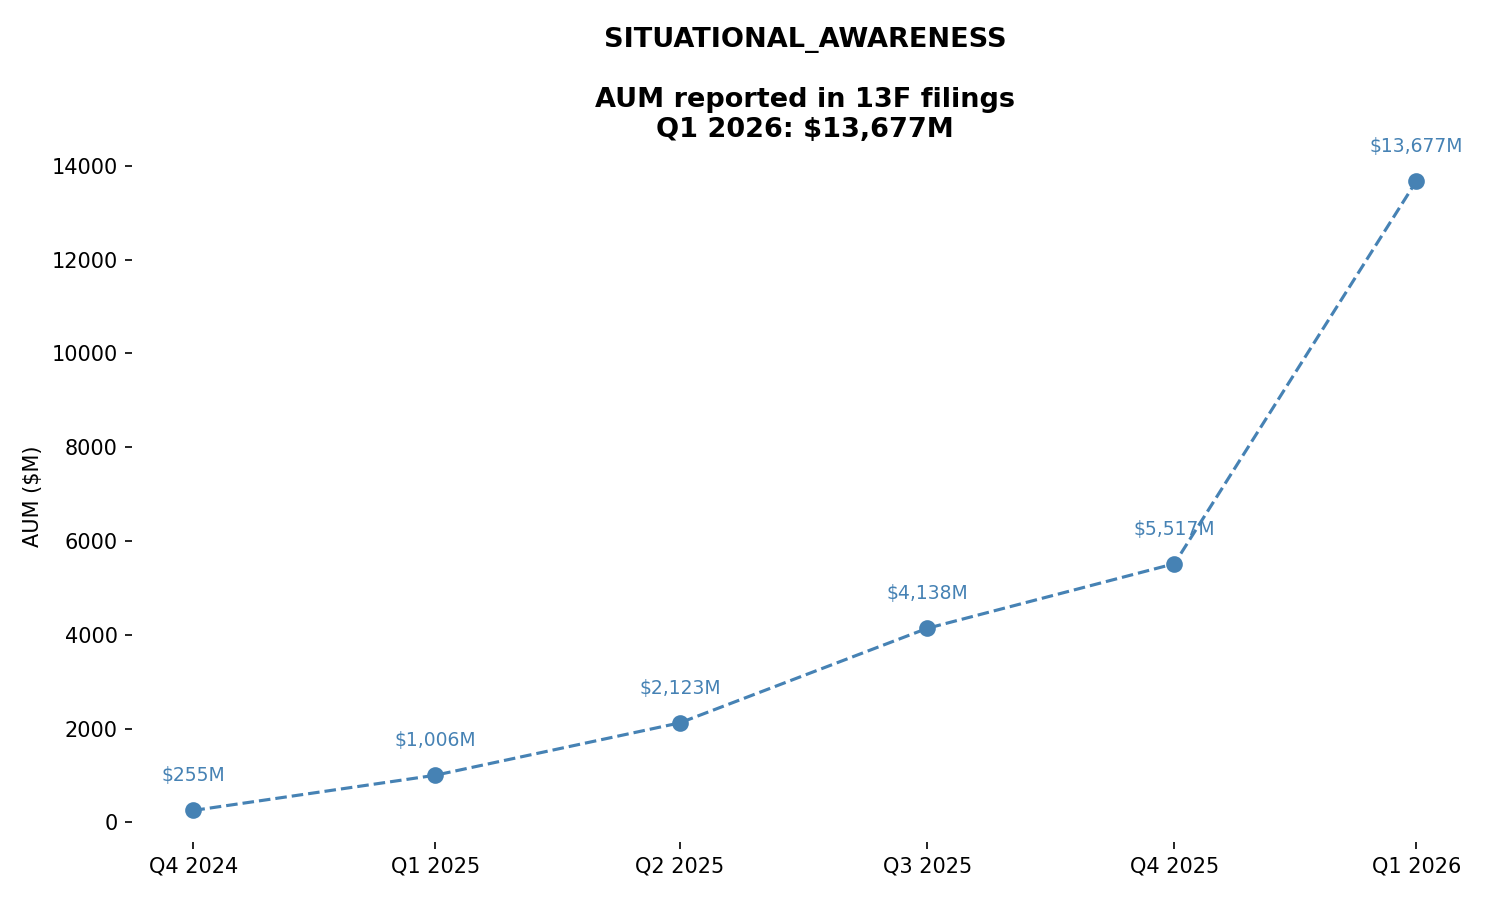
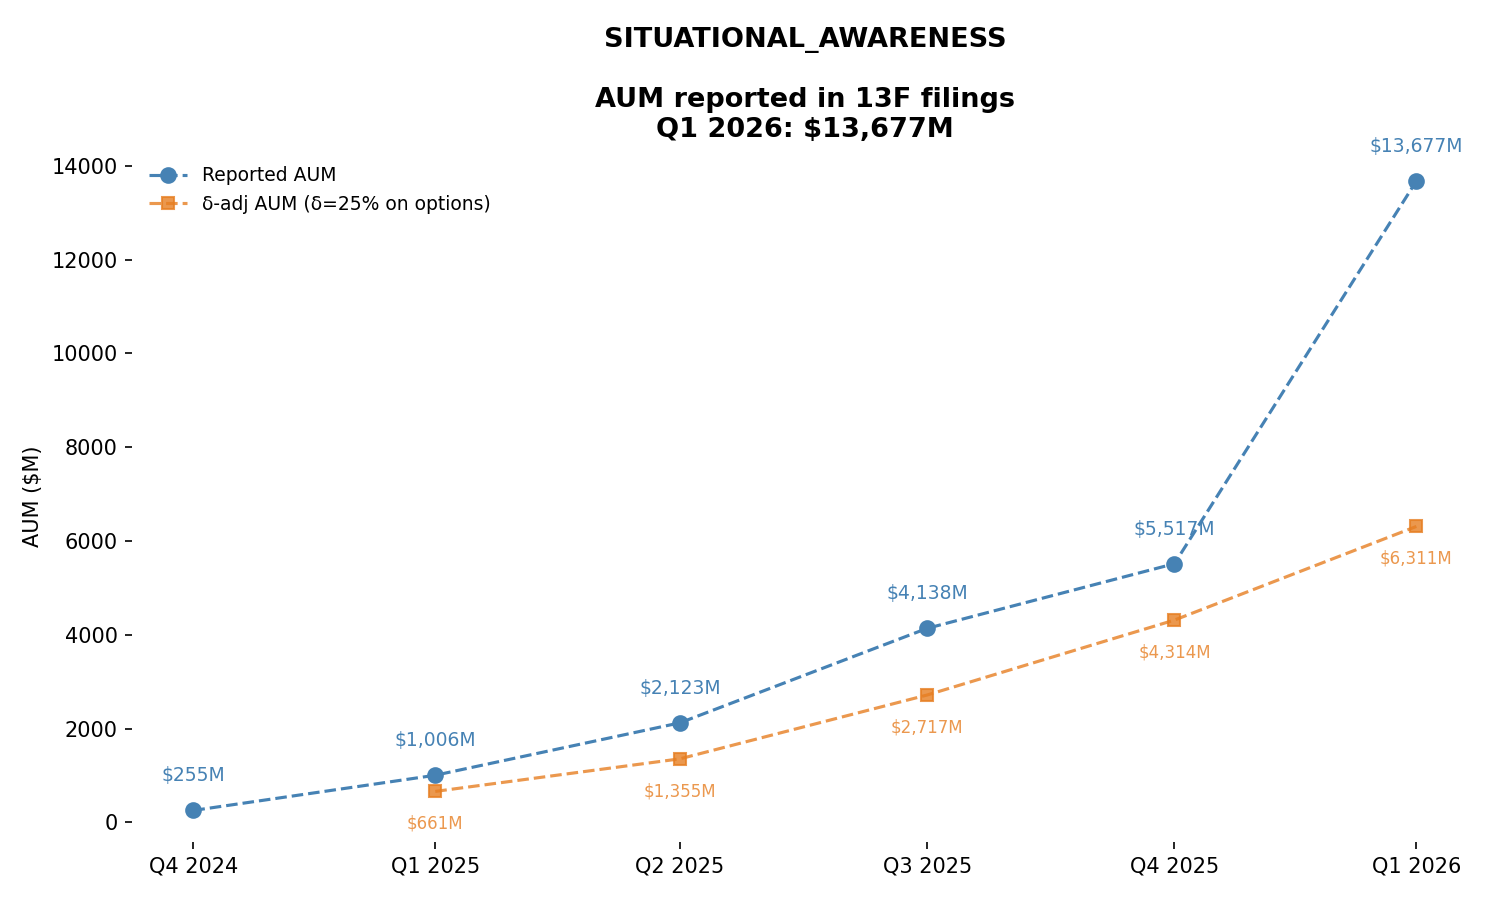
seb_benq_commit

diff --git a/alphaleague/last13f/index.html b/alphaleague/last13f/index.html
@@ -46,10 +46,22 @@
     /* content */
     .fund-block{padding:1rem 2rem 2.5rem}
     .fund-block h2{color:#368c2e;font-size:1.15rem;margin-bottom:.5rem}
-    .chart-sec img{max-width:100%;border-radius:6px;
+    .chart-sec img{max-width:100%;max-height:75vh;width:auto;height:auto;
+                    display:block;border-radius:6px;
                     box-shadow:0 2px 10px rgba(0,0,0,.09)}
-    /* positions chart is portrait — cap height so it doesn't dominate the page */
-    [id$="-positions"] img{max-height:90vh;width:auto;display:block}
+    /* positions: portrait, needs more vertical room */
+    [id$="-positions"] img{max-height:85vh}
+    /* buys & sells bar charts: landscape, keep compact */
+    [id$="-buysells"] img{max-height:60vh}
+    /* buys & sells perf: multi-row chart, needs full height */
+    [id$="-buysperf"] img{max-height:95vh}
+    /* stacked chart subtitles */
+    .chart-subtitle{font-size:.85rem;font-weight:600;color:#495057;
+                     margin:1.2rem 0 .3rem}
+    .chart-subtitle:first-child{margin-top:0}
+    /* explanatory caption below chart */
+    .chart-caption{font-size:.8rem;color:#6c757d;margin-top:.8rem;
+                    max-width:900px;line-height:1.5}
 
     @media(max-width:700px){
       .top-tabs,.fund-block{padding-left:.8rem;padding-right:.8rem}
@@ -67,15 +79,6 @@
 
 <div class="top-tabs">
   <div class="top-tab active" data-target="fund-SITUATIONAL_AWARENESS"><img src="../images/managers/situational_awareness.png" alt="">Sit. Awareness</div>
-  <div class="top-tab" data-target="fund-BERKSHIRE"><img src="../images/managers/berkshire.png" alt="">Berkshire</div>
-  <div class="top-tab" data-target="fund-ARK"><img src="../images/managers/ark.png" alt="">Ark</div>
-  <div class="top-tab" data-target="fund-COATUE"><img src="../images/managers/coatue.png" alt="">Coatue</div>
-  <div class="top-tab" data-target="fund-PERSHING"><img src="../images/managers/pershing.png" alt="">Pershing</div>
-  <div class="top-tab" data-target="fund-THIRD_POINT"><img src="../images/managers/third_point.png" alt="">Third Point</div>
-  <div class="top-tab" data-target="fund-BAUPOST"><img src="../images/managers/baupost.png" alt="">Baupost</div>
-  <div class="top-tab" data-target="fund-AKO"><img src="../images/managers/ako.png" alt="">Ako</div>
-  <div class="top-tab" data-target="fund-RA"><img src="../images/managers/ra.png" alt="">Ra</div>
-  <div class="top-tab" data-target="fund-ALPINE"><img src="../images/managers/alpine.png" alt="">Alpine</div>
 </div>
 
 <div id="fund-SITUATIONAL_AWARENESS" class="fund-block" style="display:block">
@@ -88,244 +91,27 @@
     <span class="sec-tab featured" data-fund="SITUATIONAL_AWARENESS" data-target="s-SITUATIONAL_AWARENESS-buysperf">Buys & Sell Perf</span>
   </div>
   <div id="s-SITUATIONAL_AWARENESS-aum" class="chart-sec" style="display:block">
-    <img src="SITUATIONAL_AWARENESS/SITUATIONAL_AWARENESS_aum.png" alt="AUM">
+  <p class="chart-caption">Assets Under Management as reported in each quarterly 13F filing. <b>Reported AUM</b> = SEC total, which includes option notionals at underlying value (consistent with WhaleWisdom). <b>δ-adj AUM</b> = long positions + 25&thinsp;% &times; option notionals — only shown when the fund holds options.</p>
+  <img src="SITUATIONAL_AWARENESS/SITUATIONAL_AWARENESS_aum.png" alt="AUM">
   </div>
   <div id="s-SITUATIONAL_AWARENESS-track" class="chart-sec" style="display:none">
-    <img src="SITUATIONAL_AWARENESS/SITUATIONAL_AWARENESS_clone_track.png" alt="Clone Track">
+  <p class="chart-caption">Simulated clone portfolio rebalanced quarterly at 13F weights, normalised to 1 at inception. <b>Clone all</b> uses every reported position. <b>Clone top&thinsp;N</b> keeps only the largest N positions, equal-weighted. <b>+45d public</b> simulates an investor who acts only after the filing becomes public (45 days after quarter-end). Compared against SPY as benchmark.</p>
+  <img src="SITUATIONAL_AWARENESS/SITUATIONAL_AWARENESS_clone_track.png" alt="Clone Track">
   </div>
   <div id="s-SITUATIONAL_AWARENESS-positions" class="chart-sec" style="display:none">
-    <img src="SITUATIONAL_AWARENESS/SITUATIONAL_AWARENESS_positions.png" alt="Positions">
+  <p class="chart-caption">Portfolio holdings from the two most recent 13F filings. Bars show the weight of each position as a % of total reported AUM. &#9733; new position &nbsp;|&nbsp; &#8593; biggest addition &nbsp;|&nbsp; &#8595; biggest trim. Tickers marked *(P) or *(C) indicate the fund also holds Put or Call options on that name (option exposure estimated at &delta;&thinsp;=&thinsp;25% of notional).</p>
+  <img src="SITUATIONAL_AWARENESS/SITUATIONAL_AWARENESS_positions.png" alt="Positions">
   </div>
   <div id="s-SITUATIONAL_AWARENESS-buysells" class="chart-sec" style="display:none">
-    <img src="SITUATIONAL_AWARENESS/SITUATIONAL_AWARENESS_buys_sells.png" alt="Buys & Sells">
+  <p class="chart-caption">Changes in portfolio between the two most recent quarters. <b>Δ% weight</b> can be misleading when options are present: adding large Put positions inflates total AUM, compressing all stock weights even with no stock trades. <b>Δ$ (shares &times; price)</b> is immune to this distortion — it directly measures conviction in dollar terms and is the preferred view.</p>
+  <p class="chart-subtitle">By Δ% weight</p>
+  <img src="SITUATIONAL_AWARENESS/SITUATIONAL_AWARENESS_buys_sells.png" alt="By Δ% weight">
+  <p class="chart-subtitle">By Δ$ (shares × price)</p>
+  <img src="SITUATIONAL_AWARENESS/SITUATIONAL_AWARENESS_buys_sells_usd.png" alt="By Δ$ (shares × price)">
   </div>
   <div id="s-SITUATIONAL_AWARENESS-buysperf" class="chart-sec" style="display:none">
-    <img src="SITUATIONAL_AWARENESS/SITUATIONAL_AWARENESS_buys_sells_perf.png" alt="Buys & Sell Perf">
-  </div>
-</div>
-<div id="fund-BERKSHIRE" class="fund-block" style="display:none">
-  <h2>Berkshire</h2>
-  <div class="sec-tabs">
-    <span class="sec-tab active" data-fund="BERKSHIRE" data-target="s-BERKSHIRE-aum">AUM</span>
-    <span class="sec-tab featured" data-fund="BERKSHIRE" data-target="s-BERKSHIRE-track">Fund Clone</span>
-    <span class="sec-tab" data-fund="BERKSHIRE" data-target="s-BERKSHIRE-positions">Positions</span>
-    <span class="sec-tab" data-fund="BERKSHIRE" data-target="s-BERKSHIRE-buysells">Buys & Sells</span>
-    <span class="sec-tab featured" data-fund="BERKSHIRE" data-target="s-BERKSHIRE-buysperf">Buys & Sell Perf</span>
-  </div>
-  <div id="s-BERKSHIRE-aum" class="chart-sec" style="display:block">
-    <img src="BERKSHIRE/BERKSHIRE_aum.png" alt="AUM">
-  </div>
-  <div id="s-BERKSHIRE-track" class="chart-sec" style="display:none">
-    <img src="BERKSHIRE/BERKSHIRE_clone_track.png" alt="Clone Track">
-  </div>
-  <div id="s-BERKSHIRE-positions" class="chart-sec" style="display:none">
-    <img src="BERKSHIRE/BERKSHIRE_positions.png" alt="Positions">
-  </div>
-  <div id="s-BERKSHIRE-buysells" class="chart-sec" style="display:none">
-    <img src="BERKSHIRE/BERKSHIRE_buys_sells.png" alt="Buys & Sells">
-  </div>
-  <div id="s-BERKSHIRE-buysperf" class="chart-sec" style="display:none">
-    <img src="BERKSHIRE/BERKSHIRE_buys_sells_perf.png" alt="Buys & Sell Perf">
-  </div>
-</div>
-<div id="fund-ARK" class="fund-block" style="display:none">
-  <h2>Ark</h2>
-  <div class="sec-tabs">
-    <span class="sec-tab active" data-fund="ARK" data-target="s-ARK-aum">AUM</span>
-    <span class="sec-tab featured" data-fund="ARK" data-target="s-ARK-track">Fund Clone</span>
-    <span class="sec-tab" data-fund="ARK" data-target="s-ARK-positions">Positions</span>
-    <span class="sec-tab" data-fund="ARK" data-target="s-ARK-buysells">Buys & Sells</span>
-    <span class="sec-tab featured" data-fund="ARK" data-target="s-ARK-buysperf">Buys & Sell Perf</span>
-  </div>
-  <div id="s-ARK-aum" class="chart-sec" style="display:block">
-    <img src="ARK/ARK_aum.png" alt="AUM">
-  </div>
-  <div id="s-ARK-track" class="chart-sec" style="display:none">
-    <img src="ARK/ARK_clone_track.png" alt="Clone Track">
-  </div>
-  <div id="s-ARK-positions" class="chart-sec" style="display:none">
-    <img src="ARK/ARK_positions.png" alt="Positions">
-  </div>
-  <div id="s-ARK-buysells" class="chart-sec" style="display:none">
-    <img src="ARK/ARK_buys_sells.png" alt="Buys & Sells">
-  </div>
-  <div id="s-ARK-buysperf" class="chart-sec" style="display:none">
-    <img src="ARK/ARK_buys_sells_perf.png" alt="Buys & Sell Perf">
-  </div>
-</div>
-<div id="fund-COATUE" class="fund-block" style="display:none">
-  <h2>Coatue</h2>
-  <div class="sec-tabs">
-    <span class="sec-tab active" data-fund="COATUE" data-target="s-COATUE-aum">AUM</span>
-    <span class="sec-tab featured" data-fund="COATUE" data-target="s-COATUE-track">Fund Clone</span>
-    <span class="sec-tab" data-fund="COATUE" data-target="s-COATUE-positions">Positions</span>
-    <span class="sec-tab" data-fund="COATUE" data-target="s-COATUE-buysells">Buys & Sells</span>
-    <span class="sec-tab featured" data-fund="COATUE" data-target="s-COATUE-buysperf">Buys & Sell Perf</span>
-  </div>
-  <div id="s-COATUE-aum" class="chart-sec" style="display:block">
-    <img src="COATUE/COATUE_aum.png" alt="AUM">
-  </div>
-  <div id="s-COATUE-track" class="chart-sec" style="display:none">
-    <img src="COATUE/COATUE_clone_track.png" alt="Clone Track">
-  </div>
-  <div id="s-COATUE-positions" class="chart-sec" style="display:none">
-    <img src="COATUE/COATUE_positions.png" alt="Positions">
-  </div>
-  <div id="s-COATUE-buysells" class="chart-sec" style="display:none">
-    <img src="COATUE/COATUE_buys_sells.png" alt="Buys & Sells">
-  </div>
-  <div id="s-COATUE-buysperf" class="chart-sec" style="display:none">
-    <img src="COATUE/COATUE_buys_sells_perf.png" alt="Buys & Sell Perf">
-  </div>
-</div>
-<div id="fund-PERSHING" class="fund-block" style="display:none">
-  <h2>Pershing</h2>
-  <div class="sec-tabs">
-    <span class="sec-tab active" data-fund="PERSHING" data-target="s-PERSHING-aum">AUM</span>
-    <span class="sec-tab featured" data-fund="PERSHING" data-target="s-PERSHING-track">Fund Clone</span>
-    <span class="sec-tab" data-fund="PERSHING" data-target="s-PERSHING-positions">Positions</span>
-    <span class="sec-tab" data-fund="PERSHING" data-target="s-PERSHING-buysells">Buys & Sells</span>
-    <span class="sec-tab featured" data-fund="PERSHING" data-target="s-PERSHING-buysperf">Buys & Sell Perf</span>
-  </div>
-  <div id="s-PERSHING-aum" class="chart-sec" style="display:block">
-    <img src="PERSHING/PERSHING_aum.png" alt="AUM">
-  </div>
-  <div id="s-PERSHING-track" class="chart-sec" style="display:none">
-    <img src="PERSHING/PERSHING_clone_track.png" alt="Clone Track">
-  </div>
-  <div id="s-PERSHING-positions" class="chart-sec" style="display:none">
-    <img src="PERSHING/PERSHING_positions.png" alt="Positions">
-  </div>
-  <div id="s-PERSHING-buysells" class="chart-sec" style="display:none">
-    <img src="PERSHING/PERSHING_buys_sells.png" alt="Buys & Sells">
-  </div>
-  <div id="s-PERSHING-buysperf" class="chart-sec" style="display:none">
-    <img src="PERSHING/PERSHING_buys_sells_perf.png" alt="Buys & Sell Perf">
-  </div>
-</div>
-<div id="fund-THIRD_POINT" class="fund-block" style="display:none">
-  <h2>Third Point</h2>
-  <div class="sec-tabs">
-    <span class="sec-tab active" data-fund="THIRD_POINT" data-target="s-THIRD_POINT-aum">AUM</span>
-    <span class="sec-tab featured" data-fund="THIRD_POINT" data-target="s-THIRD_POINT-track">Fund Clone</span>
-    <span class="sec-tab" data-fund="THIRD_POINT" data-target="s-THIRD_POINT-positions">Positions</span>
-    <span class="sec-tab" data-fund="THIRD_POINT" data-target="s-THIRD_POINT-buysells">Buys & Sells</span>
-    <span class="sec-tab featured" data-fund="THIRD_POINT" data-target="s-THIRD_POINT-buysperf">Buys & Sell Perf</span>
-  </div>
-  <div id="s-THIRD_POINT-aum" class="chart-sec" style="display:block">
-    <img src="THIRD_POINT/THIRD_POINT_aum.png" alt="AUM">
-  </div>
-  <div id="s-THIRD_POINT-track" class="chart-sec" style="display:none">
-    <img src="THIRD_POINT/THIRD_POINT_clone_track.png" alt="Clone Track">
-  </div>
-  <div id="s-THIRD_POINT-positions" class="chart-sec" style="display:none">
-    <img src="THIRD_POINT/THIRD_POINT_positions.png" alt="Positions">
-  </div>
-  <div id="s-THIRD_POINT-buysells" class="chart-sec" style="display:none">
-    <img src="THIRD_POINT/THIRD_POINT_buys_sells.png" alt="Buys & Sells">
-  </div>
-  <div id="s-THIRD_POINT-buysperf" class="chart-sec" style="display:none">
-    <img src="THIRD_POINT/THIRD_POINT_buys_sells_perf.png" alt="Buys & Sell Perf">
-  </div>
-</div>
-<div id="fund-BAUPOST" class="fund-block" style="display:none">
-  <h2>Baupost</h2>
-  <div class="sec-tabs">
-    <span class="sec-tab active" data-fund="BAUPOST" data-target="s-BAUPOST-aum">AUM</span>
-    <span class="sec-tab featured" data-fund="BAUPOST" data-target="s-BAUPOST-track">Fund Clone</span>
-    <span class="sec-tab" data-fund="BAUPOST" data-target="s-BAUPOST-positions">Positions</span>
-    <span class="sec-tab" data-fund="BAUPOST" data-target="s-BAUPOST-buysells">Buys & Sells</span>
-    <span class="sec-tab featured" data-fund="BAUPOST" data-target="s-BAUPOST-buysperf">Buys & Sell Perf</span>
-  </div>
-  <div id="s-BAUPOST-aum" class="chart-sec" style="display:block">
-    <img src="BAUPOST/BAUPOST_aum.png" alt="AUM">
-  </div>
-  <div id="s-BAUPOST-track" class="chart-sec" style="display:none">
-    <img src="BAUPOST/BAUPOST_clone_track.png" alt="Clone Track">
-  </div>
-  <div id="s-BAUPOST-positions" class="chart-sec" style="display:none">
-    <img src="BAUPOST/BAUPOST_positions.png" alt="Positions">
-  </div>
-  <div id="s-BAUPOST-buysells" class="chart-sec" style="display:none">
-    <img src="BAUPOST/BAUPOST_buys_sells.png" alt="Buys & Sells">
-  </div>
-  <div id="s-BAUPOST-buysperf" class="chart-sec" style="display:none">
-    <img src="BAUPOST/BAUPOST_buys_sells_perf.png" alt="Buys & Sell Perf">
-  </div>
-</div>
-<div id="fund-AKO" class="fund-block" style="display:none">
-  <h2>Ako</h2>
-  <div class="sec-tabs">
-    <span class="sec-tab active" data-fund="AKO" data-target="s-AKO-aum">AUM</span>
-    <span class="sec-tab featured" data-fund="AKO" data-target="s-AKO-track">Fund Clone</span>
-    <span class="sec-tab" data-fund="AKO" data-target="s-AKO-positions">Positions</span>
-    <span class="sec-tab" data-fund="AKO" data-target="s-AKO-buysells">Buys & Sells</span>
-    <span class="sec-tab featured" data-fund="AKO" data-target="s-AKO-buysperf">Buys & Sell Perf</span>
-  </div>
-  <div id="s-AKO-aum" class="chart-sec" style="display:block">
-    <img src="AKO/AKO_aum.png" alt="AUM">
-  </div>
-  <div id="s-AKO-track" class="chart-sec" style="display:none">
-    <img src="AKO/AKO_clone_track.png" alt="Clone Track">
-  </div>
-  <div id="s-AKO-positions" class="chart-sec" style="display:none">
-    <img src="AKO/AKO_positions.png" alt="Positions">
-  </div>
-  <div id="s-AKO-buysells" class="chart-sec" style="display:none">
-    <img src="AKO/AKO_buys_sells.png" alt="Buys & Sells">
-  </div>
-  <div id="s-AKO-buysperf" class="chart-sec" style="display:none">
-    <img src="AKO/AKO_buys_sells_perf.png" alt="Buys & Sell Perf">
-  </div>
-</div>
-<div id="fund-RA" class="fund-block" style="display:none">
-  <h2>Ra</h2>
-  <div class="sec-tabs">
-    <span class="sec-tab active" data-fund="RA" data-target="s-RA-aum">AUM</span>
-    <span class="sec-tab featured" data-fund="RA" data-target="s-RA-track">Fund Clone</span>
-    <span class="sec-tab" data-fund="RA" data-target="s-RA-positions">Positions</span>
-    <span class="sec-tab" data-fund="RA" data-target="s-RA-buysells">Buys & Sells</span>
-    <span class="sec-tab featured" data-fund="RA" data-target="s-RA-buysperf">Buys & Sell Perf</span>
-  </div>
-  <div id="s-RA-aum" class="chart-sec" style="display:block">
-    <img src="RA/RA_aum.png" alt="AUM">
-  </div>
-  <div id="s-RA-track" class="chart-sec" style="display:none">
-    <img src="RA/RA_clone_track.png" alt="Clone Track">
-  </div>
-  <div id="s-RA-positions" class="chart-sec" style="display:none">
-    <img src="RA/RA_positions.png" alt="Positions">
-  </div>
-  <div id="s-RA-buysells" class="chart-sec" style="display:none">
-    <img src="RA/RA_buys_sells.png" alt="Buys & Sells">
-  </div>
-  <div id="s-RA-buysperf" class="chart-sec" style="display:none">
-    <img src="RA/RA_buys_sells_perf.png" alt="Buys & Sell Perf">
-  </div>
-</div>
-<div id="fund-ALPINE" class="fund-block" style="display:none">
-  <h2>Alpine</h2>
-  <div class="sec-tabs">
-    <span class="sec-tab active" data-fund="ALPINE" data-target="s-ALPINE-aum">AUM</span>
-    <span class="sec-tab featured" data-fund="ALPINE" data-target="s-ALPINE-track">Fund Clone</span>
-    <span class="sec-tab" data-fund="ALPINE" data-target="s-ALPINE-positions">Positions</span>
-    <span class="sec-tab" data-fund="ALPINE" data-target="s-ALPINE-buysells">Buys & Sells</span>
-    <span class="sec-tab featured" data-fund="ALPINE" data-target="s-ALPINE-buysperf">Buys & Sell Perf</span>
-  </div>
-  <div id="s-ALPINE-aum" class="chart-sec" style="display:block">
-    <img src="ALPINE/ALPINE_aum.png" alt="AUM">
-  </div>
-  <div id="s-ALPINE-track" class="chart-sec" style="display:none">
-    <img src="ALPINE/ALPINE_clone_track.png" alt="Clone Track">
-  </div>
-  <div id="s-ALPINE-positions" class="chart-sec" style="display:none">
-    <img src="ALPINE/ALPINE_positions.png" alt="Positions">
-  </div>
-  <div id="s-ALPINE-buysells" class="chart-sec" style="display:none">
-    <img src="ALPINE/ALPINE_buys_sells.png" alt="Buys & Sells">
-  </div>
-  <div id="s-ALPINE-buysperf" class="chart-sec" style="display:none">
-    <img src="ALPINE/ALPINE_buys_sells_perf.png" alt="Buys & Sell Perf">
+  <p class="chart-caption">Price performance of the top buys and sells in the 180 days following each quarter-end, normalised to 0% at quarter-end. The dashed vertical line marks +45 days (when the 13F becomes public). Universe = same top buys / sells as the Δ$ chart. Pink dashed lines indicate Put options held on that name.</p>
+  <img src="SITUATIONAL_AWARENESS/SITUATIONAL_AWARENESS_buys_sells_perf.png" alt="Buys & Sell Perf">
   </div>
 </div>
 